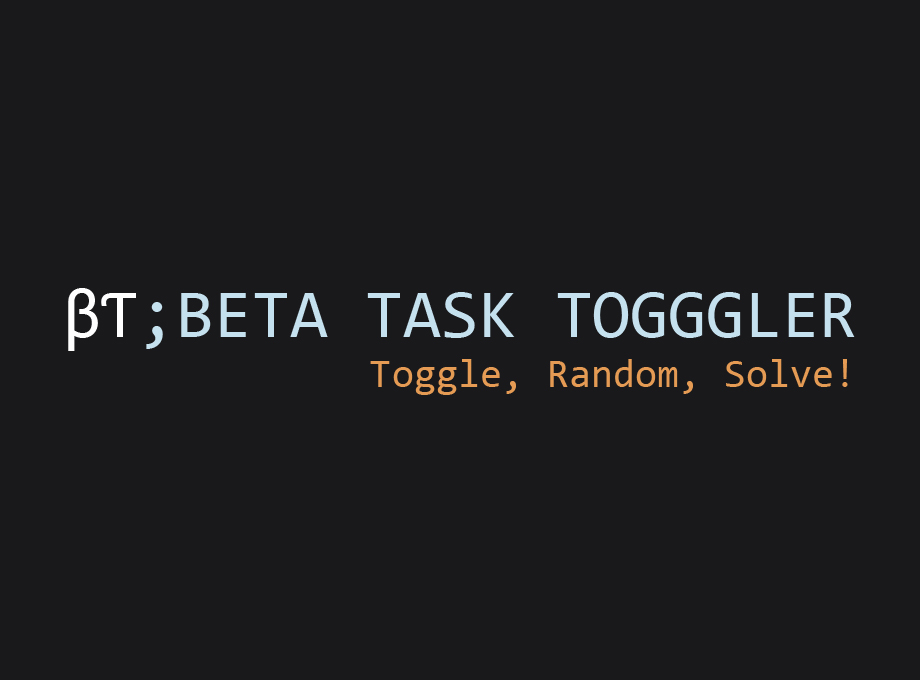
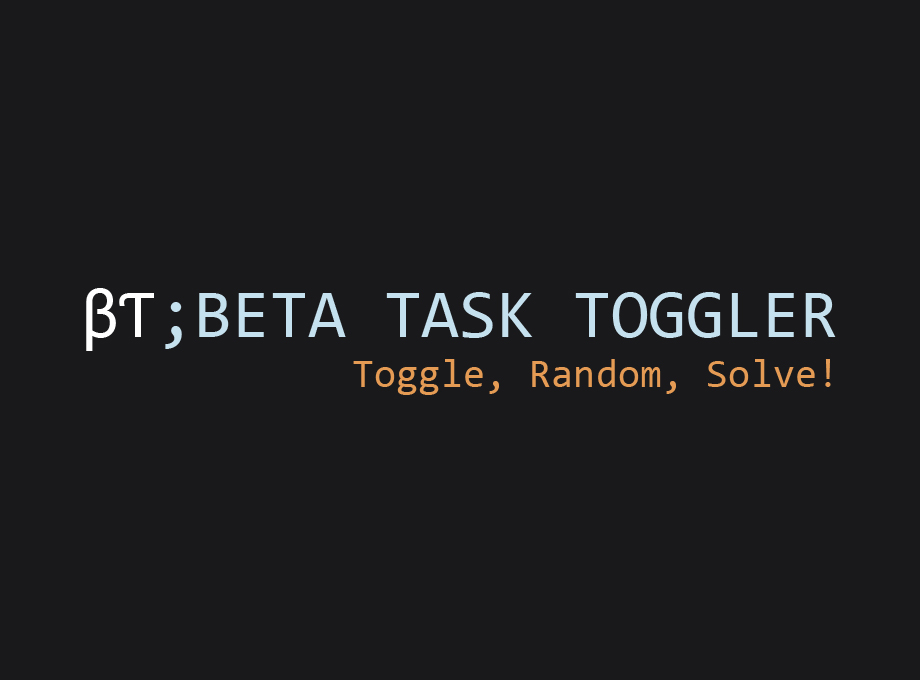
refactor code, fix typo in img, add option page

Changed region(s): [[0.0609, 0.4015, 0.5783, 0.525], [0.3652, 0.525, 0.9435, 0.5868], [0.6087, 0.4324, 0.9435, 0.4941]]

diff --git a/src/scripts/popup.js b/src/scripts/popup.js
@@ -1,0 +1,114 @@
+const classNames = {
+  completed: "css-ekrsfg",
+  uncompleted: "css-mxmbtq",
+  attempted: "css-1ifyzb",
+};
+const buttonTexts = {
+  completed: "Completed Tasks",
+  uncompleted: "Uncompleted Tasks",
+  attempted: "Attempted Tasks",
+};
+const buttonIds = {
+  completed: "toggleComplete",
+  uncompleted: "toggleIncomplete",
+  attempted: "toggleAttempt",
+};
+
+function toggleByClassNames(hide, classes) {
+  classes.forEach((className) => {
+    let completeTasks = document.getElementsByClassName(className);
+    for (let i = 0; i < completeTasks.length; i++) {
+      completeTasks[i].style.display = hide ? "none" : "table-row";
+    }
+  });
+}
+
+let randomOptions = {};
+
+chrome.storage.sync.get("randomOptions", function (res) {
+  randomOptions = res["randomOptions"];
+});
+
+const updateByTypes = async (types, toggle, updateText) => {
+  let [tab] = await chrome.tabs.query({ active: true, currentWindow: true });
+
+  chrome.storage.sync.get("hiding", function (res) {
+    types.forEach((type) => {
+      let status = res["hiding"][type];
+      if (toggle) status = !status;
+      chrome.scripting.executeScript({
+        target: { tabId: tab.id },
+        function: toggleByClassNames,
+        args: [status, [classNames[type]]],
+      });
+
+      res["hiding"][type] = status;
+
+      if (updateText) updateButtonText(buttonIds[type], res["hiding"][type], buttonTexts[type]);
+    });
+    chrome.storage.sync.set({ hiding: res["hiding"] });
+  });
+};
+
+function updateButtonText(id, hiding, text) {
+  let el = document.getElementById(id);
+  el.innerHTML = (hiding ? "Show" : "Hide") + " " + text;
+  el.title = (hiding ? "Show" : "Hide") + " " + text;
+}
+
+updateByTypes(["completed", "uncompleted", "attempted"], false, true);
+
+let toggleCompleteButton = document.getElementById(buttonIds.completed);
+toggleCompleteButton.innerHTML = `Toggle Completed Tasks`;
+toggleCompleteButton.title = `Toggle Completed Tasks`;
+toggleCompleteButton.addEventListener(
+  "click",
+  async () => await updateByTypes(["completed"], true, true)
+);
+
+let toggleIncompleteButton = document.getElementById(buttonIds.uncompleted);
+toggleIncompleteButton.innerHTML = `Toggle Uncompleted Tasks`;
+toggleIncompleteButton.title = `Toggle Uncompleted Tasks`;
+toggleIncompleteButton.addEventListener(
+  "click",
+  async () => await updateByTypes(["uncompleted"], true, true)
+);
+
+let toggleAttemptButton = document.getElementById(buttonIds.attempted);
+toggleAttemptButton.innerHTML = `Toggle Attempted Tasks`;
+toggleAttemptButton.title = `Toggle Attempted Tasks`;
+toggleAttemptButton.addEventListener(
+  "click",
+  async () => await updateByTypes(["attempted"], true, true)
+);
+
+let randomIncompleteButton = document.getElementById("randomIncomplete");
+randomIncompleteButton.innerHTML = `Random`;
+randomIncompleteButton.title = `Random`;
+
+randomIncompleteButton.addEventListener("click", async () => {
+  let [tab] = await chrome.tabs.query({ active: true, currentWindow: true });
+
+  chrome.scripting.executeScript({
+    target: { tabId: tab.id },
+    function: randomIncomplete,
+    args: [[classNames.attempted, classNames.uncompleted]],
+  });
+});
+
+function randomIncomplete(classes) {
+  var arr = [];
+
+  classes.forEach((className) => {
+    let el = document.getElementsByClassName(className);
+    for (let i = 0; i < el.length; ++i) {
+      var str = el[i].innerHTML;
+      var tmp = str.split("<")[2].split('a href="')[1].split('">')[0];
+      arr.push(tmp);
+    }
+  });
+
+  var item = arr[Math.floor(Math.random() * arr.length)];
+  if (item === undefined) item = "https://beta.programming.in.th/tasks";
+  window.location.href = item;
+}

diff --git a/src/options.html b/src/options.html
@@ -1,0 +1,67 @@
+<html lang="en">
+  <head>
+    <meta charset="UTF-8" />
+    <meta http-equiv="X-UA-Compatible" content="IE=edge" />
+    <meta name="viewport" content="width=device-width, initial-scale=1.0" />
+    <link
+      rel="stylesheet"
+      href="https://stackpath.bootstrapcdn.com/bootstrap/4.3.1/css/bootstrap.min.css"
+      integrity="sha384-ggOyR0iXCbMQv3Xipma34MD+dH/1fQ784/j6cY/iJTQUOhcWr7x9JvoRxT2MZw1T"
+      crossorigin="anonymous"
+    />
+    <title>Beta Task Toggler</title>
+  </head>
+  <body>
+    <div class="container my-5">
+      <h2>Random Setting</h2>
+      <div class="">
+        <h4>Status</h4>
+        <div class="d-flex flex-column pl-2">
+          <div class="">
+            <input class="options" type="checkbox" name="Completed" id="completed" />
+            <label for="completed">Completed</label>
+          </div>
+          <div>
+            <input class="options" type="checkbox" name="Uncompleted" id="uncompleted" />
+            <label for="uncompleted">Uncompleted</label>
+          </div>
+          <div>
+            <input class="options" type="checkbox" name="Attempted" id="attempted" />
+            <label for="attempted">Attempted</label>
+          </div>
+        </div>
+      </div>
+      <div class="">
+        <h4>Sources</h4>
+        <div class="d-flex flex-column pl-2">
+          <div>
+            <input
+              class="options"
+              type="checkbox"
+              name="Programming.in.th"
+              id="programming.in.th"
+            />
+            <label for="programming.in.th">Programming.in.th</label>
+          </div>
+          <div>
+            <input class="options" type="checkbox" name="CodeCube" id="codecube" />
+            <label for="codecube">Codecube</label>
+          </div>
+          <div>
+            <input class="options" type="checkbox" name="Ipst Camp" id="ipstcamp" />
+            <label for="ipstcamp">Ipst Camp</label>
+          </div>
+          <div>
+            <input class="options" type="checkbox" name="Toi" id="toi" />
+            <label for="toi">Toi</label>
+          </div>
+          <div>
+            <input class="options" type="checkbox" name="Tumso" id="tumso" />
+            <label for="tumso">Tumso</label>
+          </div>
+        </div>
+      </div>
+    </div>
+    <script src="./scripts/options.js"></script>
+  </body>
+</html>

diff --git a/src/scripts/options.js b/src/scripts/options.js
@@ -1,0 +1,24 @@
+const randomCompletedOption = document.getElementById("completed");
+const randomUncompletedOption = document.getElementById("uncompleted");
+const randomAttemptedOption = document.getElementById("attempted");
+
+const allOptions = document.getElementsByClassName("options");
+
+for (let idx = 0; idx < allOptions.length; idx++) {
+  allOptions[idx].addEventListener("change", onRandomOptionsChanged);
+}
+
+let randomOptions = {};
+chrome.storage.sync.get("randomOptions", function (res) {
+  randomOptions = res["randomOptions"];
+  randomCompletedOption.checked = randomOptions.randomCompleted;
+  randomUncompletedOption.checked = randomOptions.randomUncompleted;
+  randomAttemptedOption.checked = randomOptions.randomAttempted;
+});
+
+function onRandomOptionsChanged() {
+  randomOptions["randomCompleted"] = randomCompletedOption.checked;
+  randomOptions["randomUncompleted"] = randomUncompletedOption.checked;
+  randomOptions["randomAttempted"] = randomAttemptedOption.checked;
+  chrome.storage.sync.set({ randomOptions });
+}

diff --git a/src/popup.html b/src/popup.html
@@ -1,16 +1,15 @@
 <!DOCTYPE html>
 <html>
-
-<head>
+  <head>
     <link rel="stylesheet" href="styles/style.css" />
-</head>
+  </head>
 
-<body>
+  <body>
     <button id="toggleComplete"></button>
     <button id="toggleIncomplete"></button>
     <button id="toggleAttempt"></button>
     <button id="randomIncomplete"></button>
-    <script src="popup.js"></script>
-</body>
-
+    <script src="./scripts/background.js"></script>
+    <script src="./scripts/popup.js"></script>
+  </body>
 </html>

diff --git a/src/scripts/background.js b/src/scripts/background.js
@@ -1,0 +1,18 @@
+chrome.runtime.onInstalled.addListener(() => {
+  chrome.storage.sync.set(
+    {
+      hiding: {
+        completed: false,
+        uncompleted: false,
+        attempted: false,
+      },
+      randomOptions: {
+        randomCompleted: false,
+        randomAttempted: true,
+        randomUncompleted: true,
+      },
+      randomSources: {},
+    },
+    () => {}
+  );
+});

diff --git a/README.md b/README.md
@@ -24,3 +24,8 @@ This extension is not published yet, you can install it by following these steps
 ## Contributions
 
 - `Random` feature from [@MasterIceZ](https://github.com/MasterIceZ)
+
+## To-Do
+
+- Update tasks (show/hide) when page is loaded
+- Options Page
